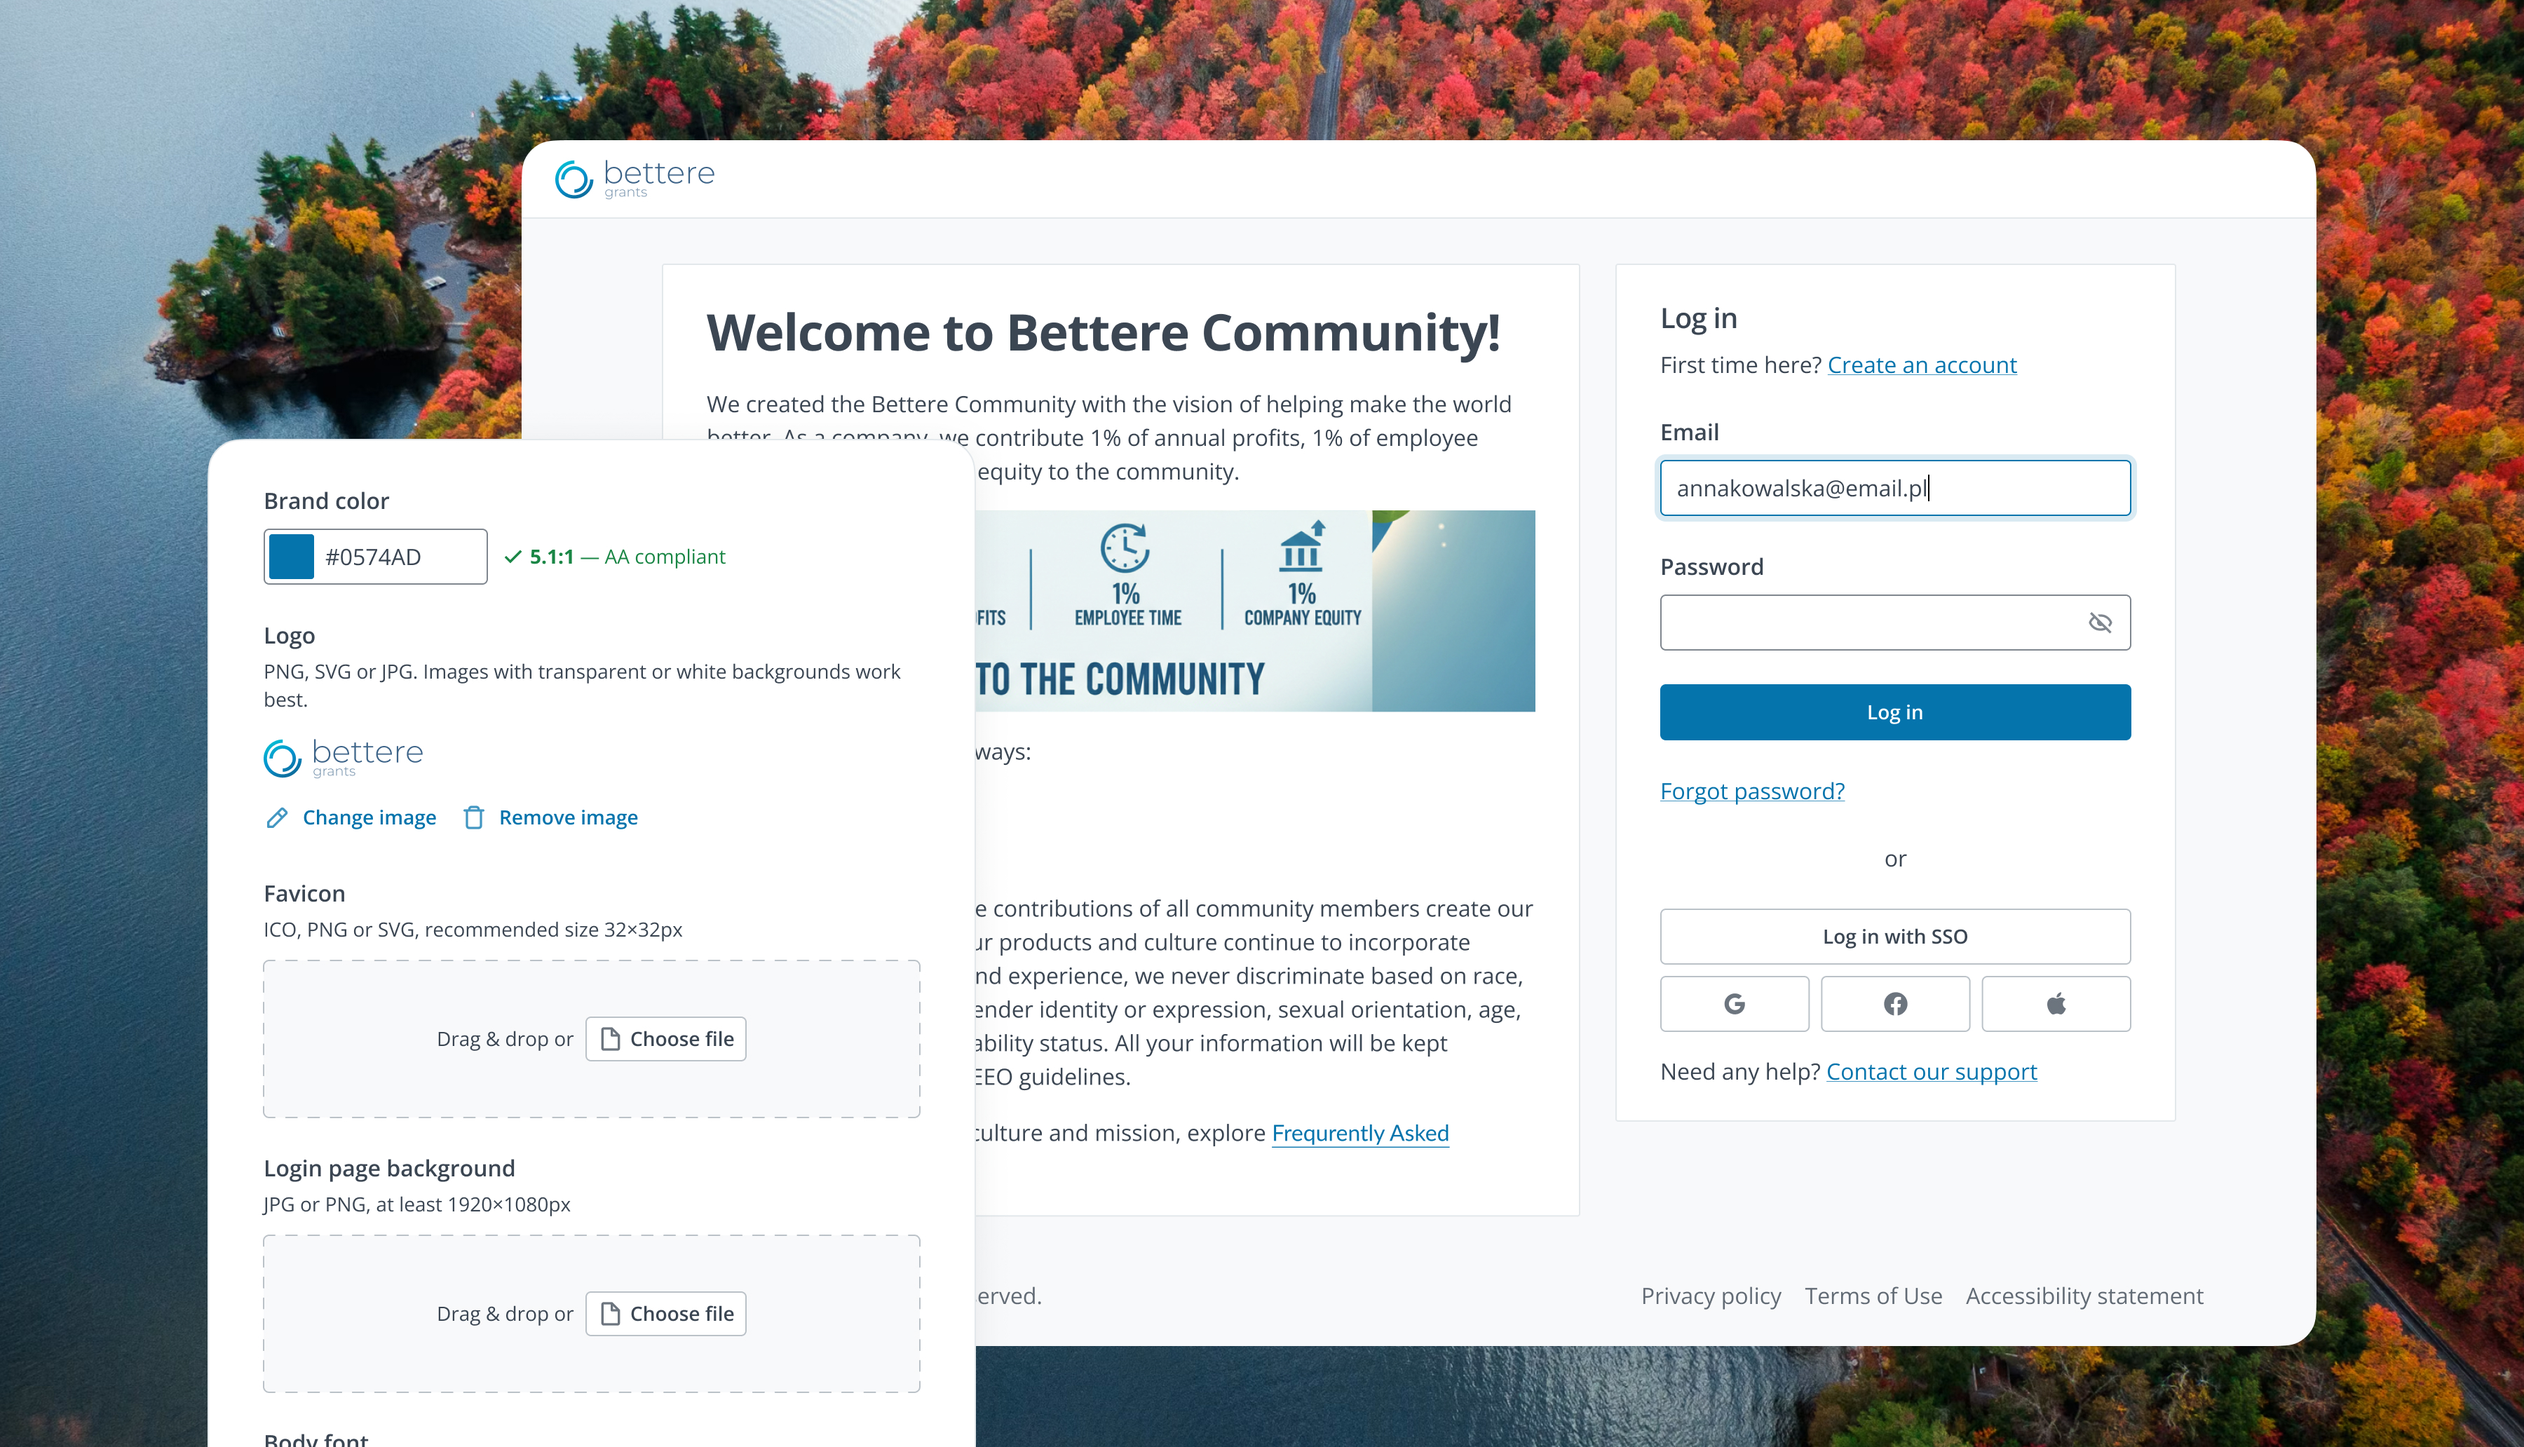
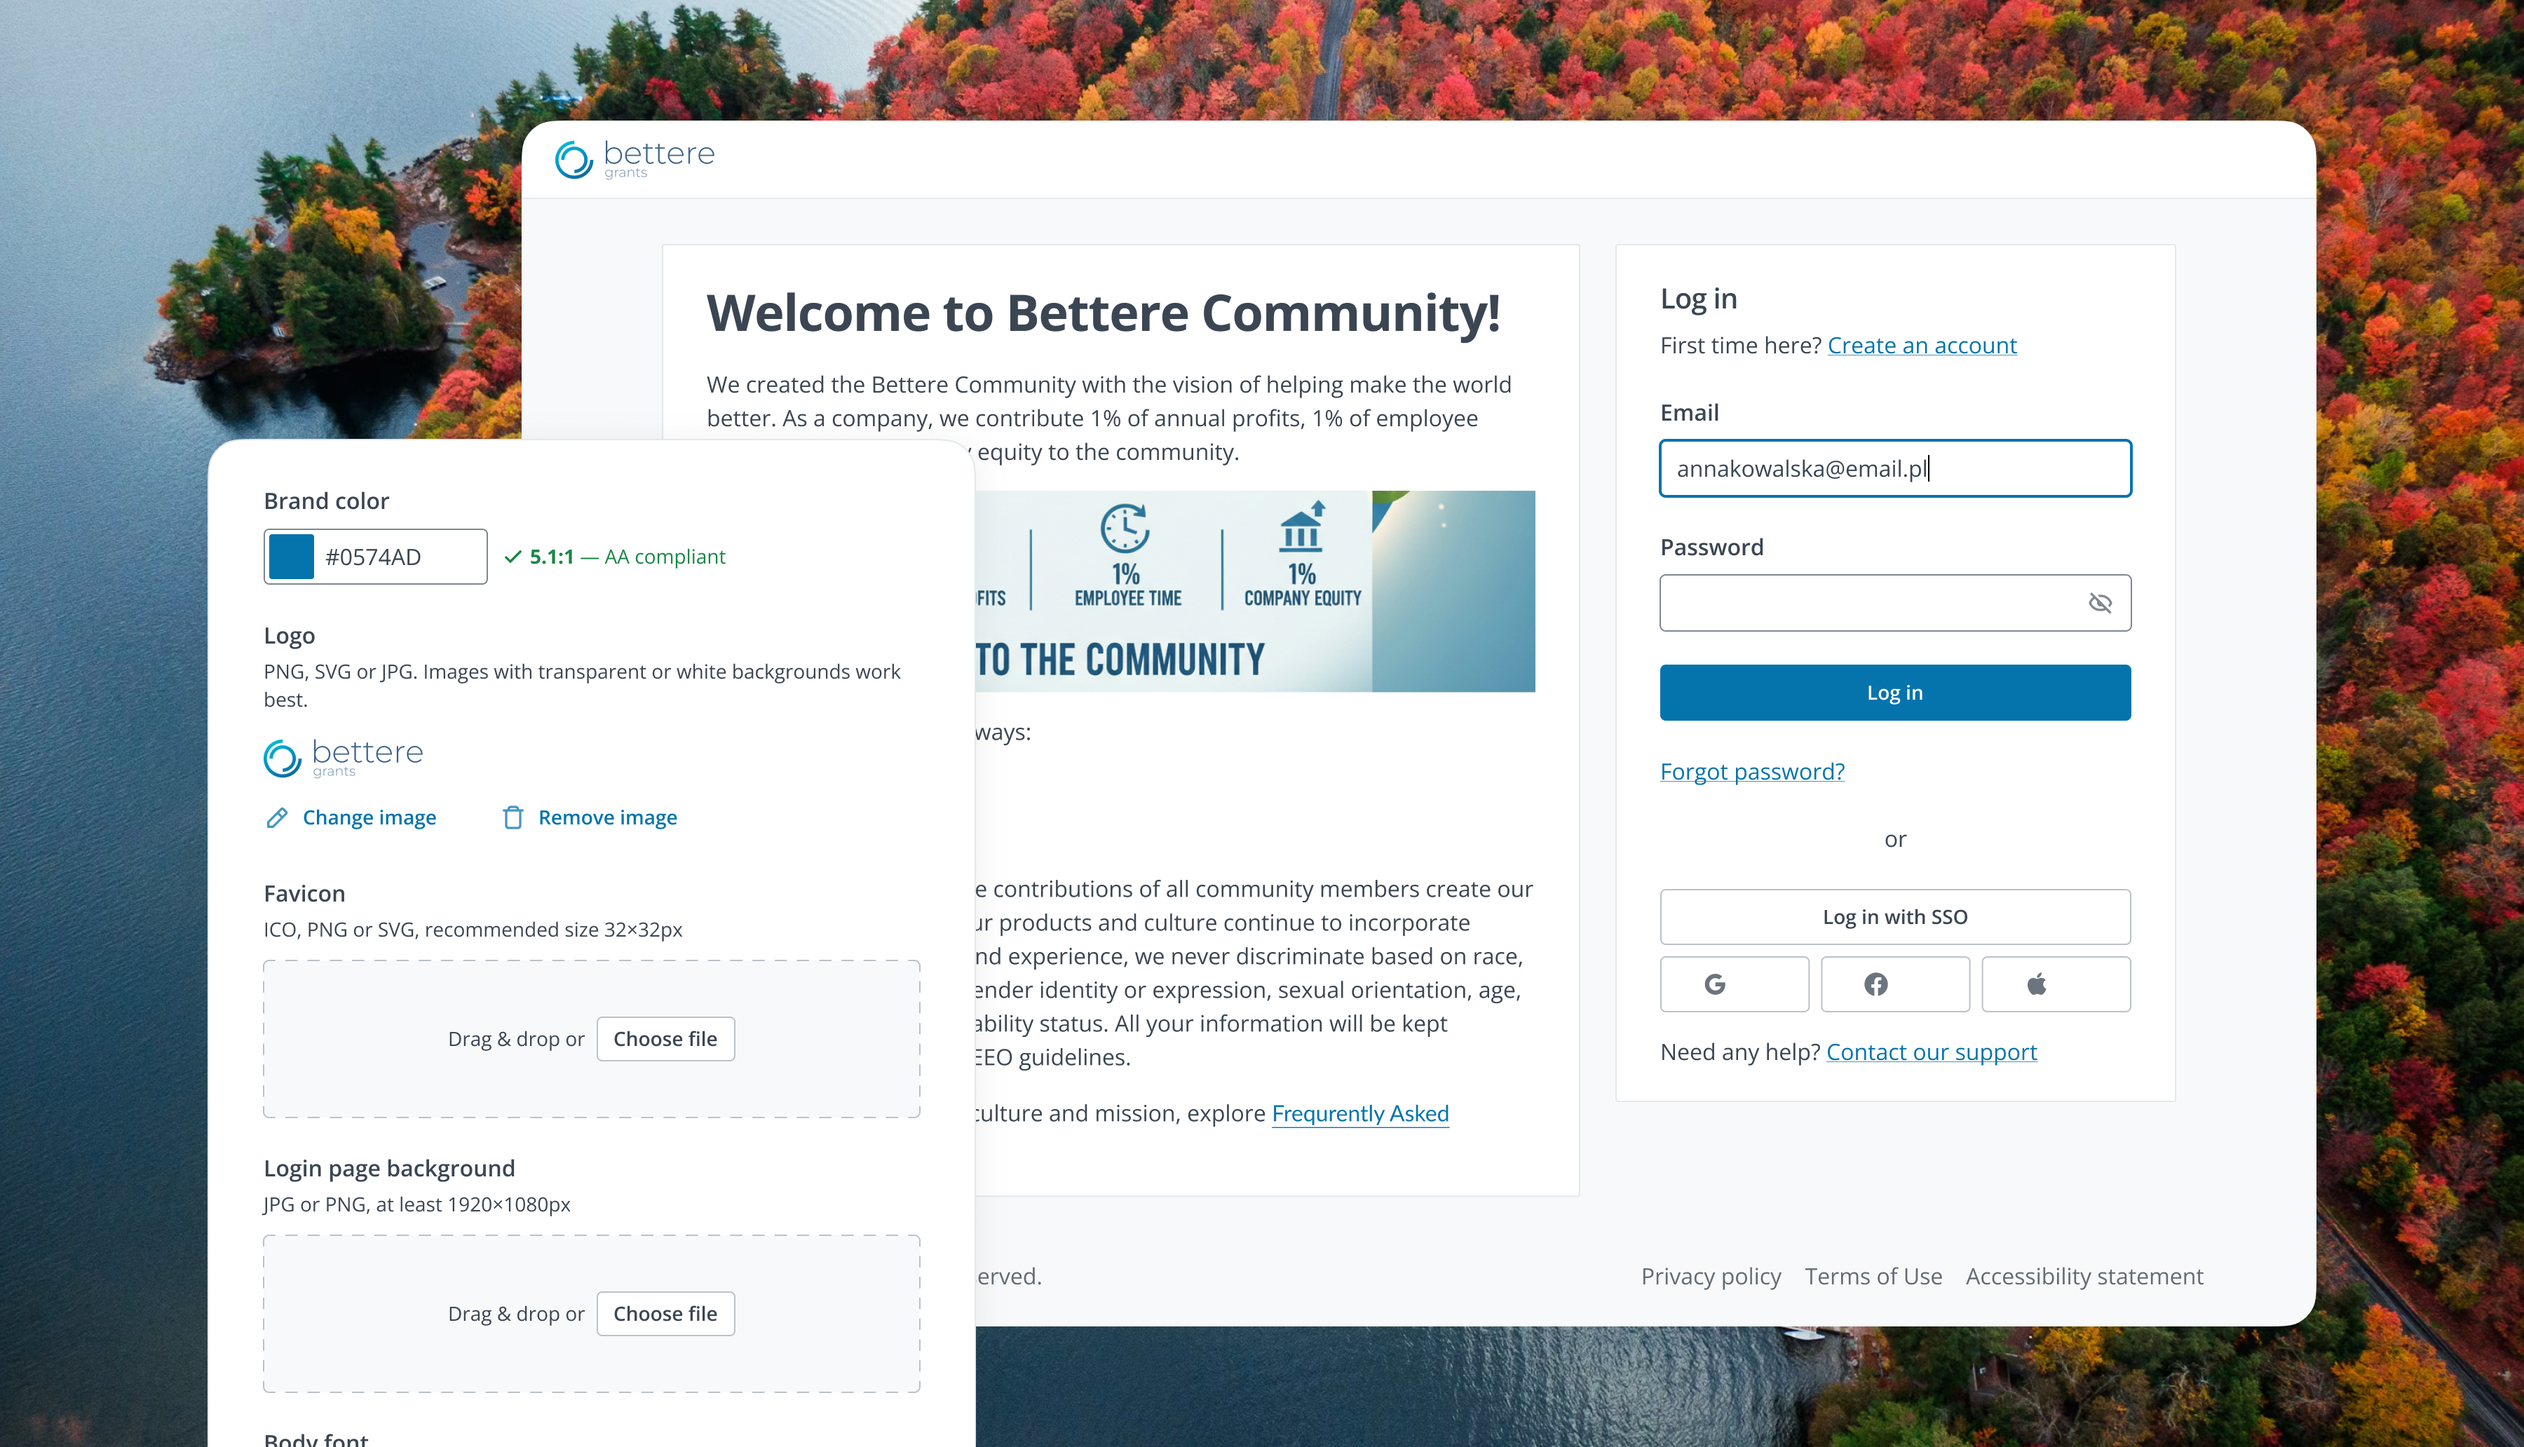
Case cover changed

diff --git a/index.html b/index.html
@@ -104,12 +104,11 @@
                                         <div class="project-tag">Design Systems</div>
                                     </div>
                                 </div>
-                                <!-- Image is decorative -->
-                                <img src="assets/projects/lms/lms-cover.jpg" alt="" class="illustration">
-                            </a>
+                            </a> -->
 
                             <a class="link-block project color-coded lms" href="lms-ds.html">
-                                <div>
+                                <img src="assets/projects/lms-product/lms-ds-cover.jpg" alt="" class="illustration">
+                                <div class="description">
                                     <span class="product-name">itslearning</span>
                                     <h3>Design system for a legacy LMS</h3>
                                     <div class="project-tags">
@@ -118,30 +117,11 @@
                                         <div class="project-tag">Accessibility</div>
                                     </div>
                                 </div>
-                                <!-- Image is decorative -->
-                                <img src="assets/projects/lms-product/self-paced course.jpg" alt="" class="illustration">
-                            </a>
-
-                            <a class="link-block project color-coded csr" href="white-labelling.html">
-                                <div>
-                                    <span class="product-name">Versaic</span>
-                                    <h3>White-labeling for a SaaS platform</h3>
-                                    <div class="project-tags">
-                                        <div class="project-tag">Design Strategy</div>
-                                        <div class="project-tag">Leadership</div>
-                                        <div class="project-tag">Scalability</div>
-                                    </div>
-                                </div>
-                                <div class="cover-pile">
-                                    <!-- Images are decorative -->
-                                    <img src="assets/projects/csr/csr-theme_login_mailchimp.jpg" alt="" class="illustration">
-                                    <img src="assets/projects/csr/csr-theme_login_starbucks.jpg" alt="" class="illustration">
-                                    <img src="assets/projects/csr/csr-theme_login_base.jpg" alt="" class="illustration">
-                                </div>
                             </a>
 
                             <a class="link-block project color-coded csr" href="grants.html">
-                                <div>
+                                <img src="assets/projects/grants/cover.jpg" alt="" class="illustration">
+                                <div class="description">
                                     <span class="product-name">Versaic</span>
                                     <h3>Grants management system</h3>
                                     <div class="project-tags">

diff --git a/lms-ds.html b/lms-ds.html
@@ -80,7 +80,7 @@
                 </header>
                 
                 <div class="img-grid breakout">
-                    <img class="illustration wide" src="assets/projects/lms-product/self-paced course.jpg" alt="A list of some reports in a course" class="illustration">
+                    <img class="illustration wide" src="assets/projects/lms-product/lms-ds-cover.jpg" alt="A list of some reports in a course" class="illustration">
                 </div>
                 
                 <h2>Context</h2>
